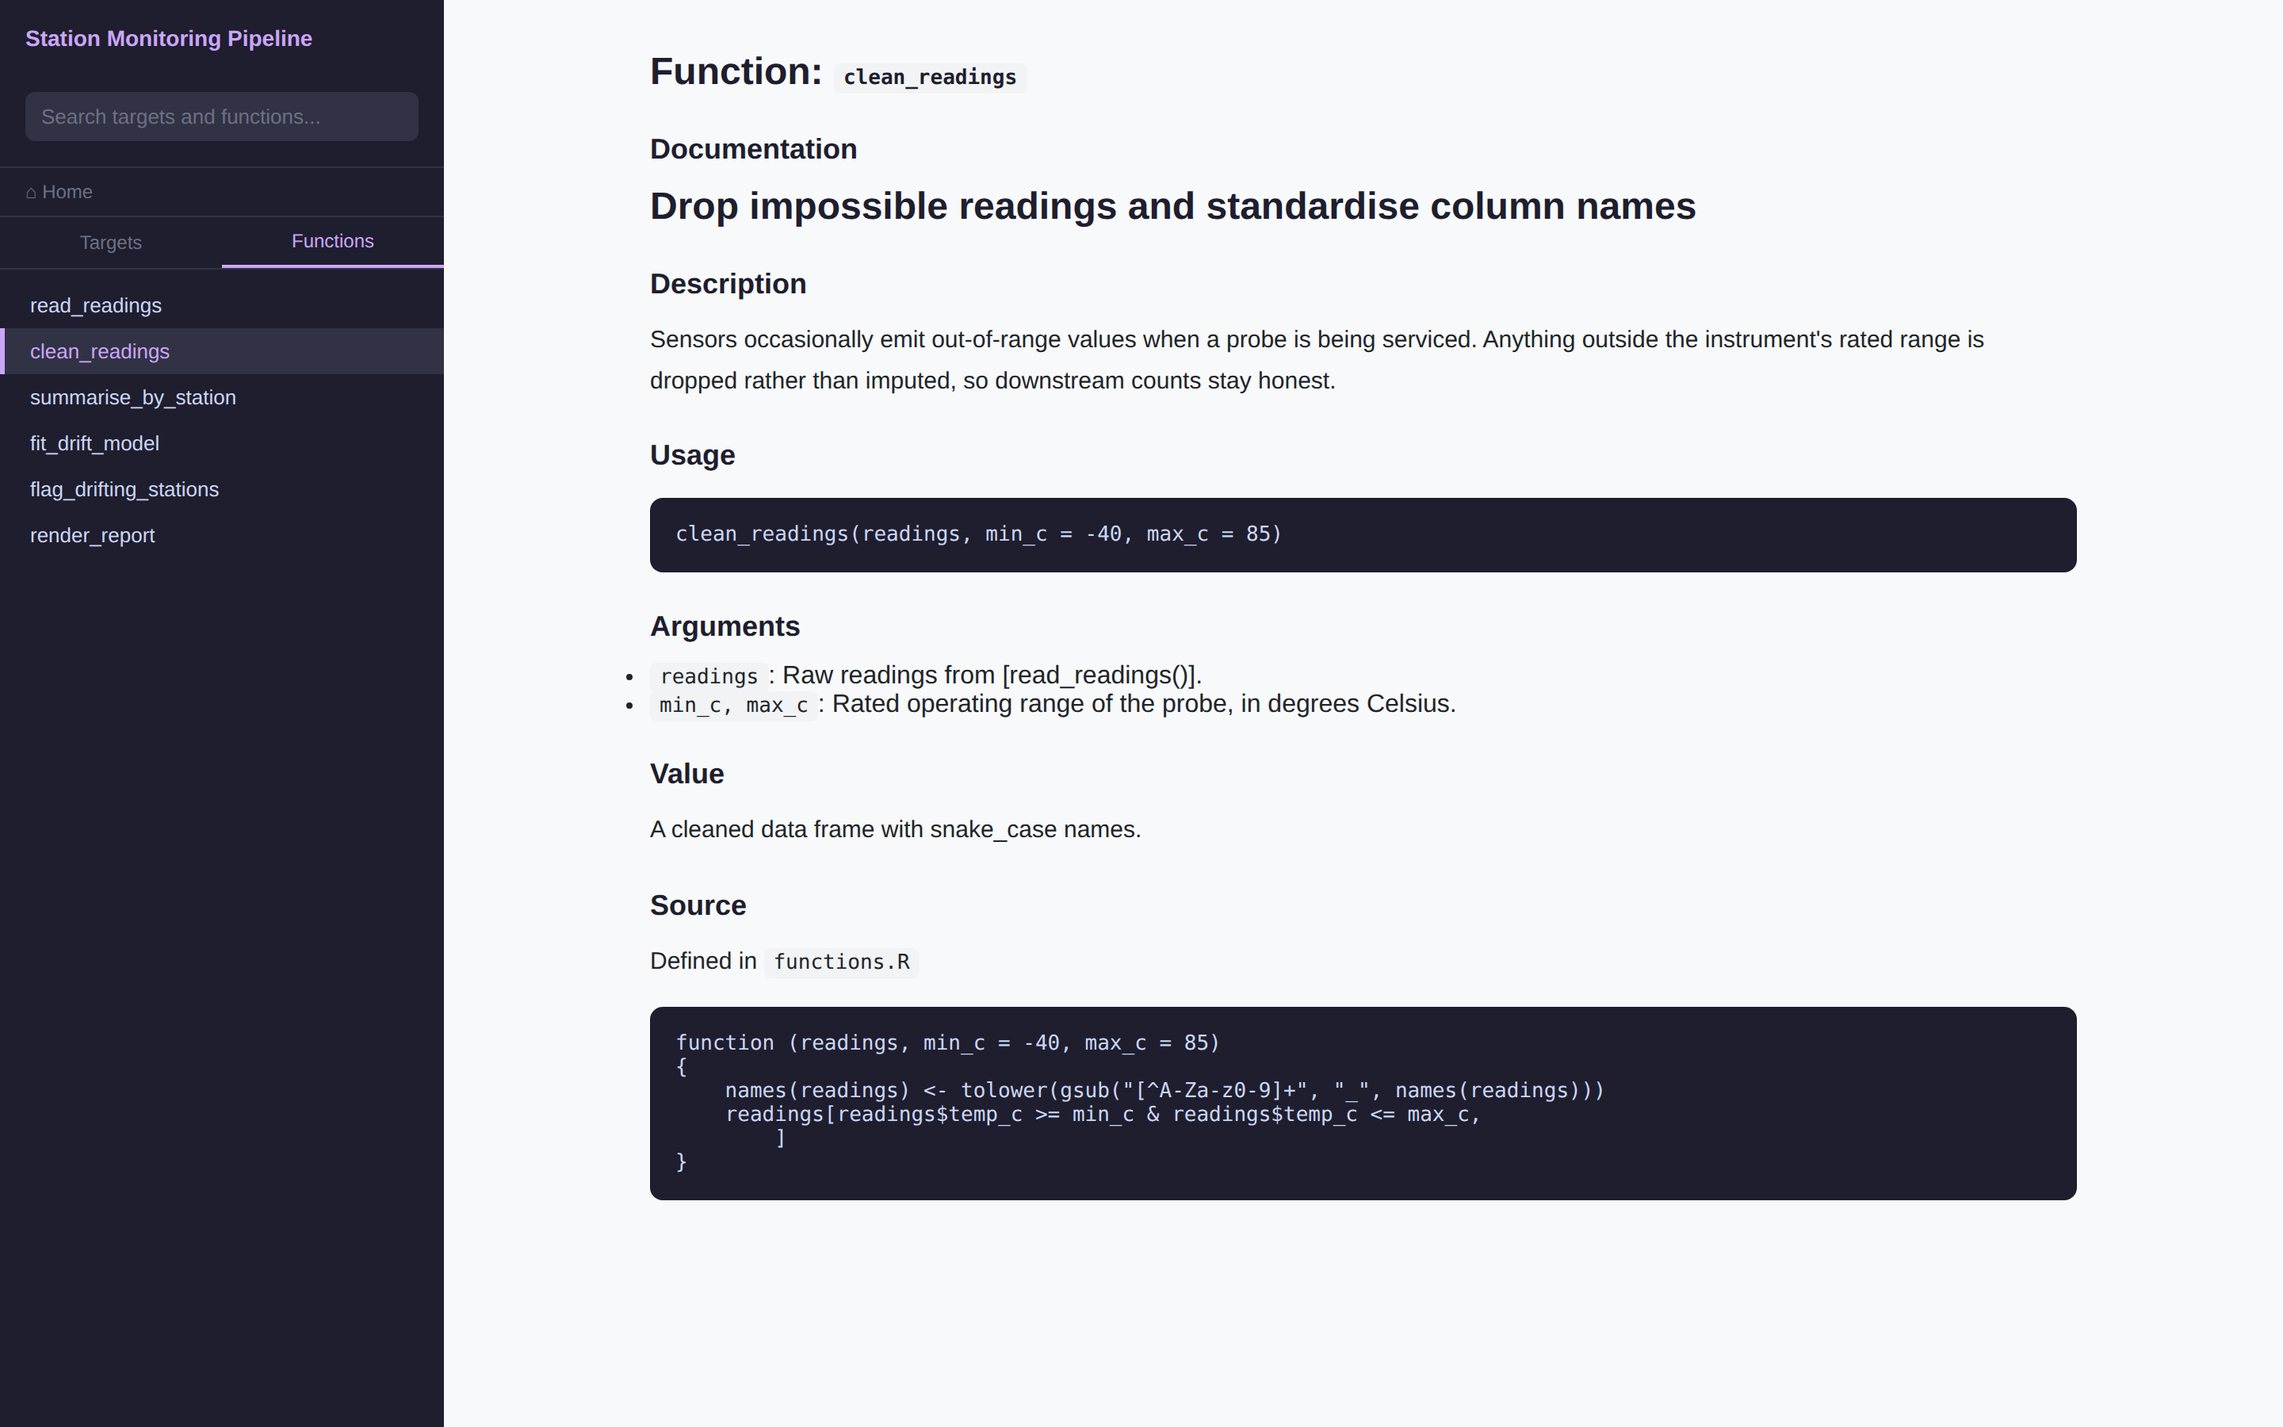
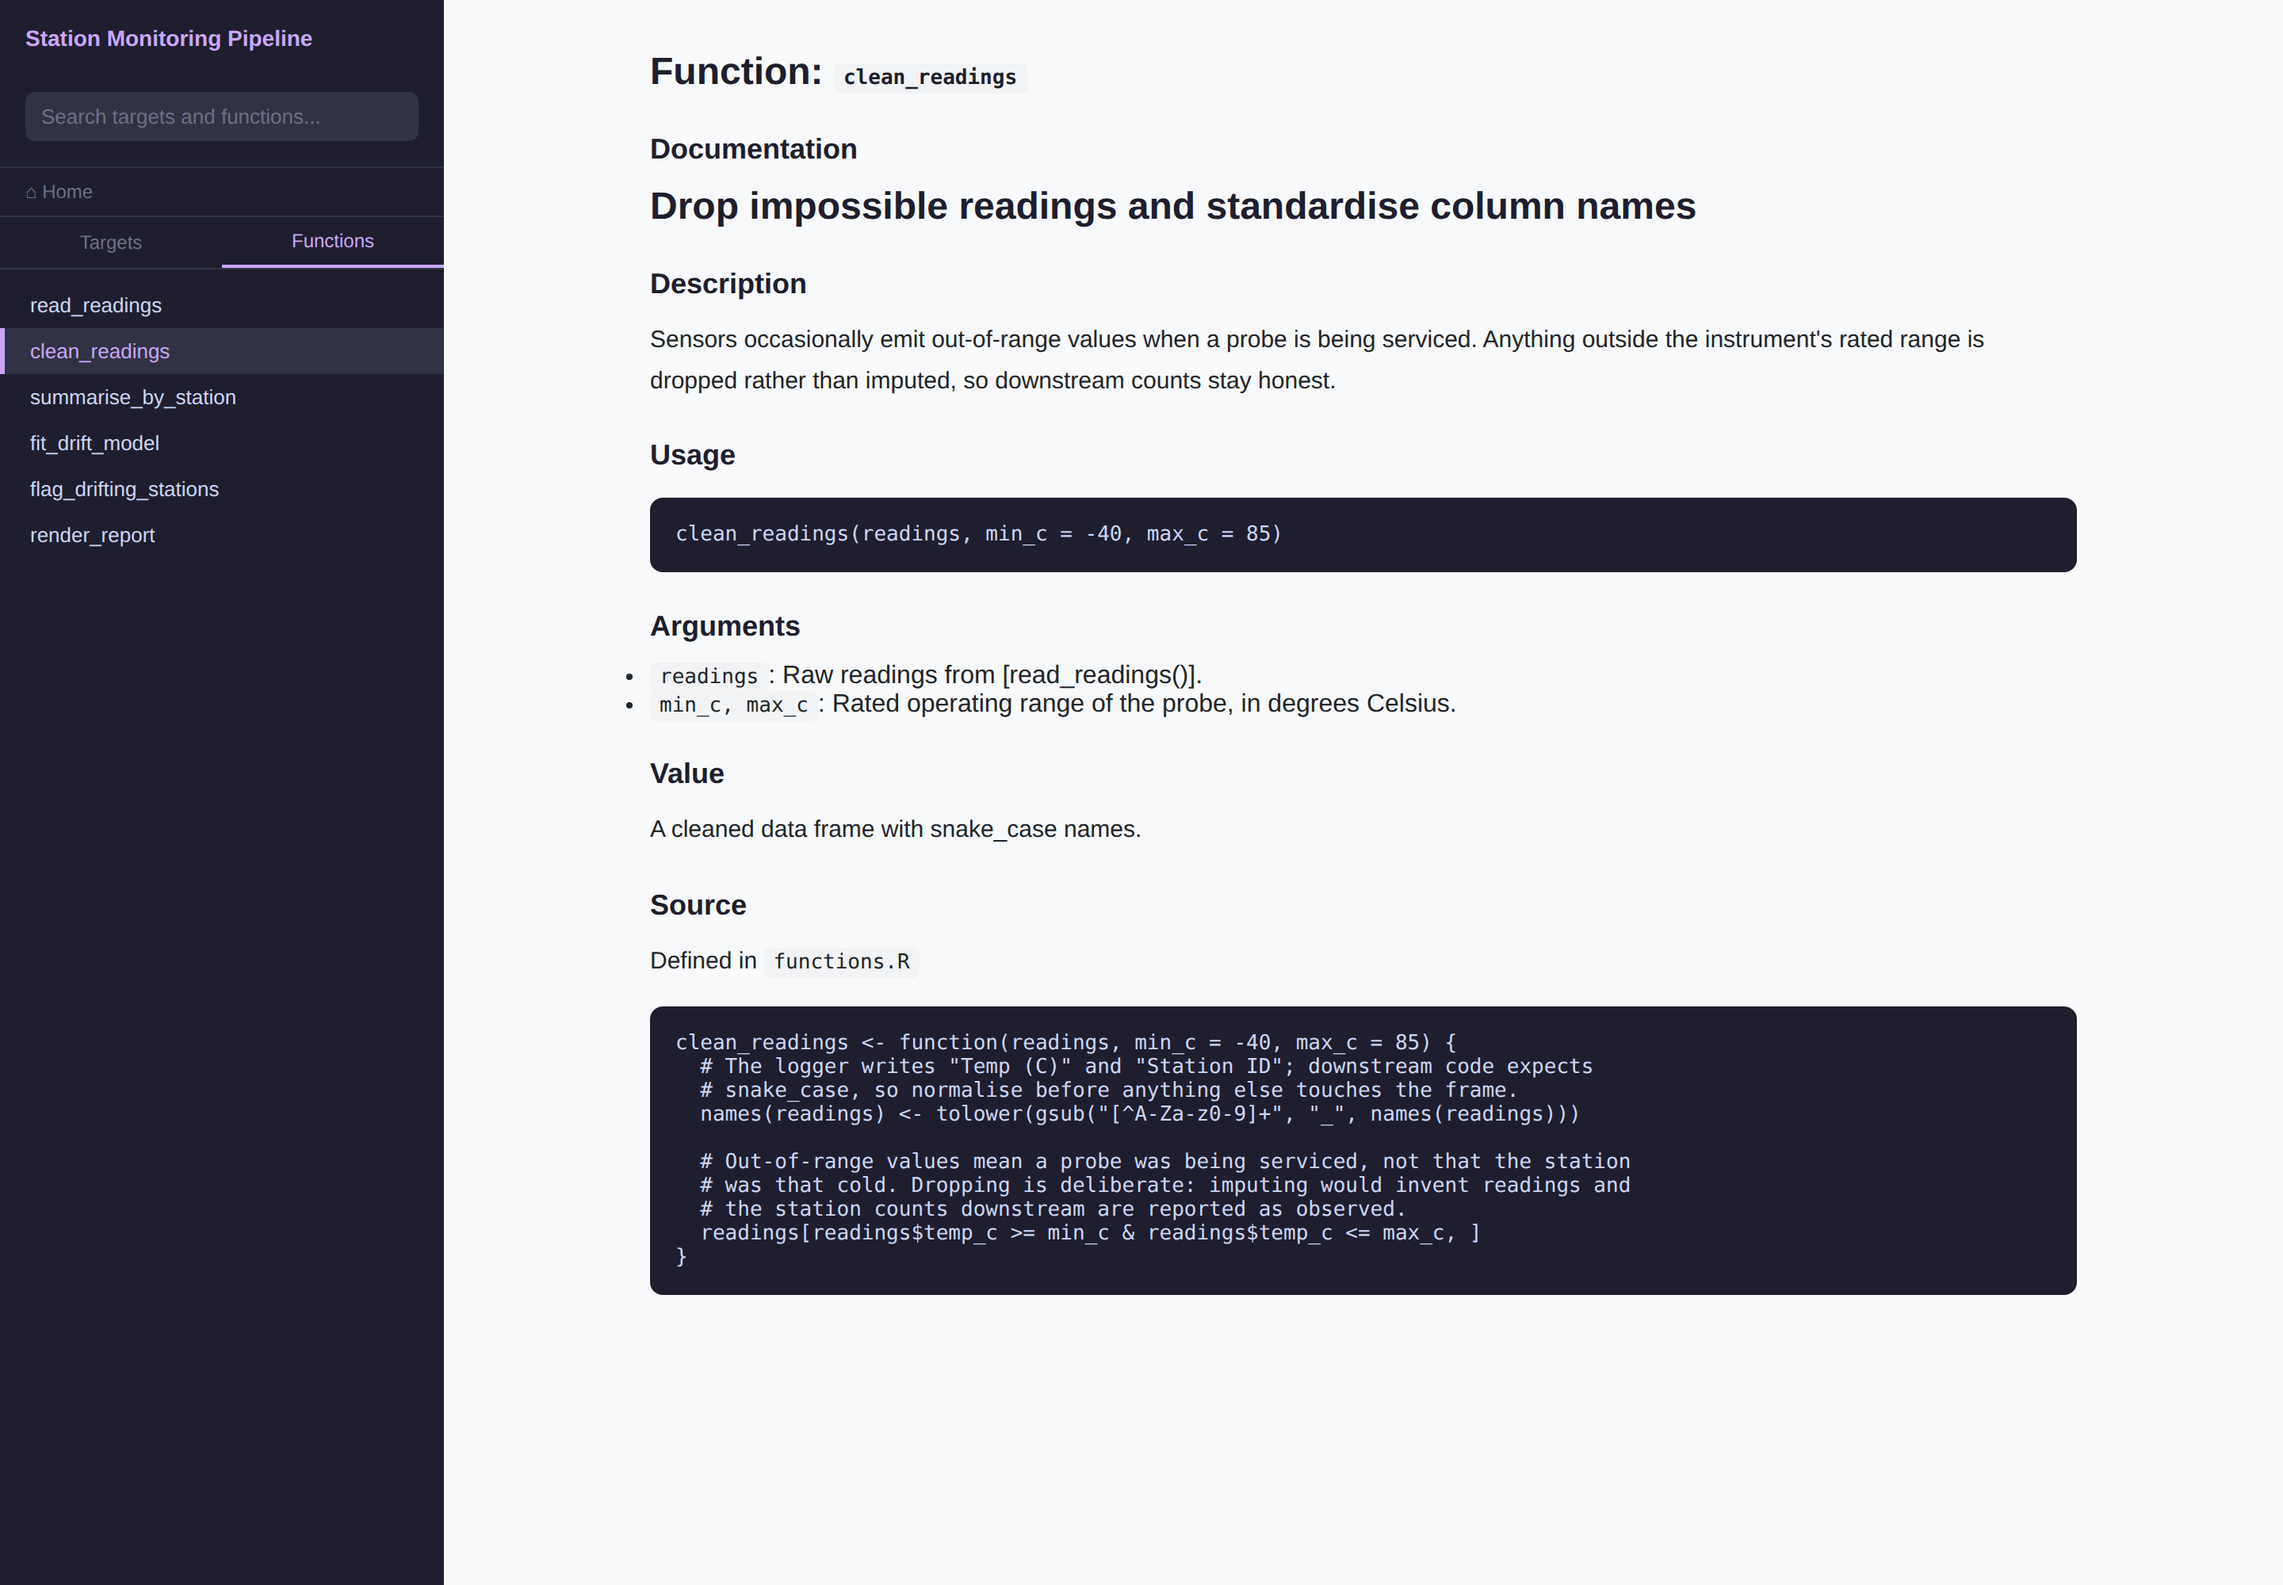
Show functions verbatim, from one parse
Function pages showed deparse(fun_obj). That is not the source -- it is R's
reconstruction of the parsed object, and R discards comments at parse time.
Every comment inside every function was silently missing from the docs. On
a function whose body is three lines of code and four lines of explaining
why, the page showed the three lines.

deparse also drops the assignment, so the page opened with a headless
`function (x, min_c = -40)`, re-indents to four spaces, removes blank lines
and re-quotes strings. None of that is what the author wrote.

parse(keep.source = TRUE) attaches a srcref to every top-level expression,
giving its exact line span, and the file's own lines are right there to
slice. No reconstruction, so comments, blank lines and formatting all
survive exactly.

That also removes the sourcing. The old code ran source() over each R file
into a child of globalenv just to obtain a function object to deparse --
executing a user's top-level script as a side effect of documenting it --
and when that failed, most often for a package the doc build did not have
installed, the page fell back to "# source unavailable". Parsing needs
none of it. There is a test with a library() call for a package that does
not exist, whose function still documents.

And it consolidates. Three callers discovered functions three ways: a
regex here, a parse in the search index, another parse for grouping.
.file_functions() is now the one implementation, with .file_defines() a
[…]

diff --git a/README.md b/README.md
@@ -82,7 +82,7 @@ my_project/
 
 <sub>Staleness propagates. Editing one function marked `clean` and everything downstream of it outdated, while `raw_path` and `readings` stayed current — the distinction an error-only status cannot draw.</sub>
 
-- Per function: rendered roxygen docs, full source code
+- Per function: rendered roxygen docs, and the **verbatim source** — comments, blank lines and the author's own formatting intact. The source is read from the file by srcref rather than reconstructed with `deparse()`, which discards every comment inside a function
 - Notes panel — content from `notes/` files appears at the bottom of each page
 - **Where the time goes** — slowest and largest targets, and the **critical path**: the longest dependency chain, whose total is the floor on a full rebuild however many workers you give it. Toggle it on the graph to see which chain to optimise
 - **Since the last build** — what rebuilt, what changed status, what got meaningfully slower or larger. A snapshot per build is appended to `tardoc/history.json`
